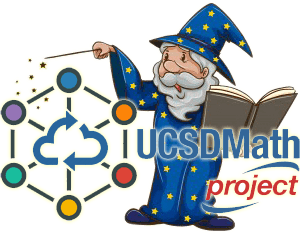
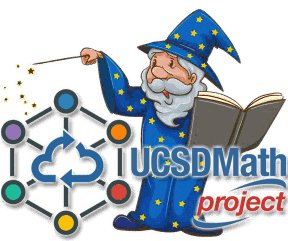
Update

diff --git a/README.md b/README.md
@@ -1,7 +1,7 @@
 # MerlinBackup
 <table border="0">
   <tr>
-    <td width="300"><img height="235" width="300"alt="UCSDMath - Mathlink" src="https://github.com/ucsdmath/MerlinBackup/blob/master/resource/merlin-backup.png"></td>
+    <td width="300"><img height="240" width="290"alt="UCSDMath - Mathlink" src="https://github.com/ucsdmath/MerlinBackup/blob/master/resource/merlin-backup.png"></td>
     <td><h3>A Development Project in PHP</h3><p><strong>UCSDMath</strong> provides a testing framework for general internal Intranet software applications for the UCSD, Department of Mathematics. This is used for development and testing only. [not for production]</p>
 
 <table width="550"><tr><td width="120"><b>Travis CI</b></td><td width="250"><b>SensioLabs</b></td><td width="180"><b>Dependencies</b></td></tr><tr>
